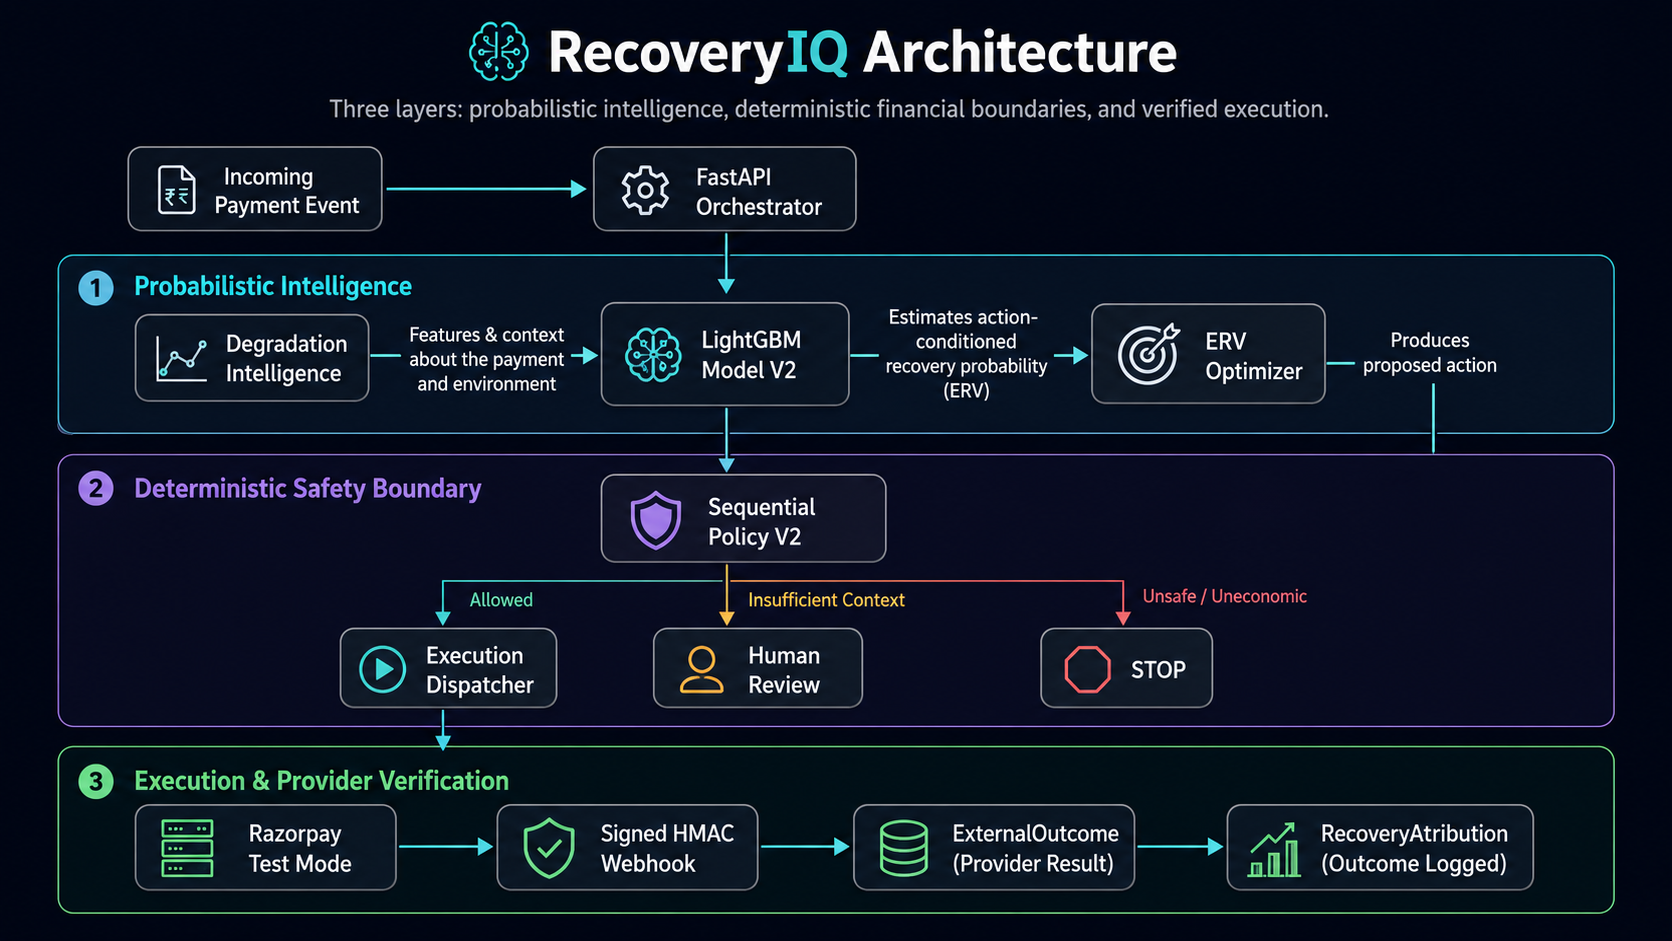
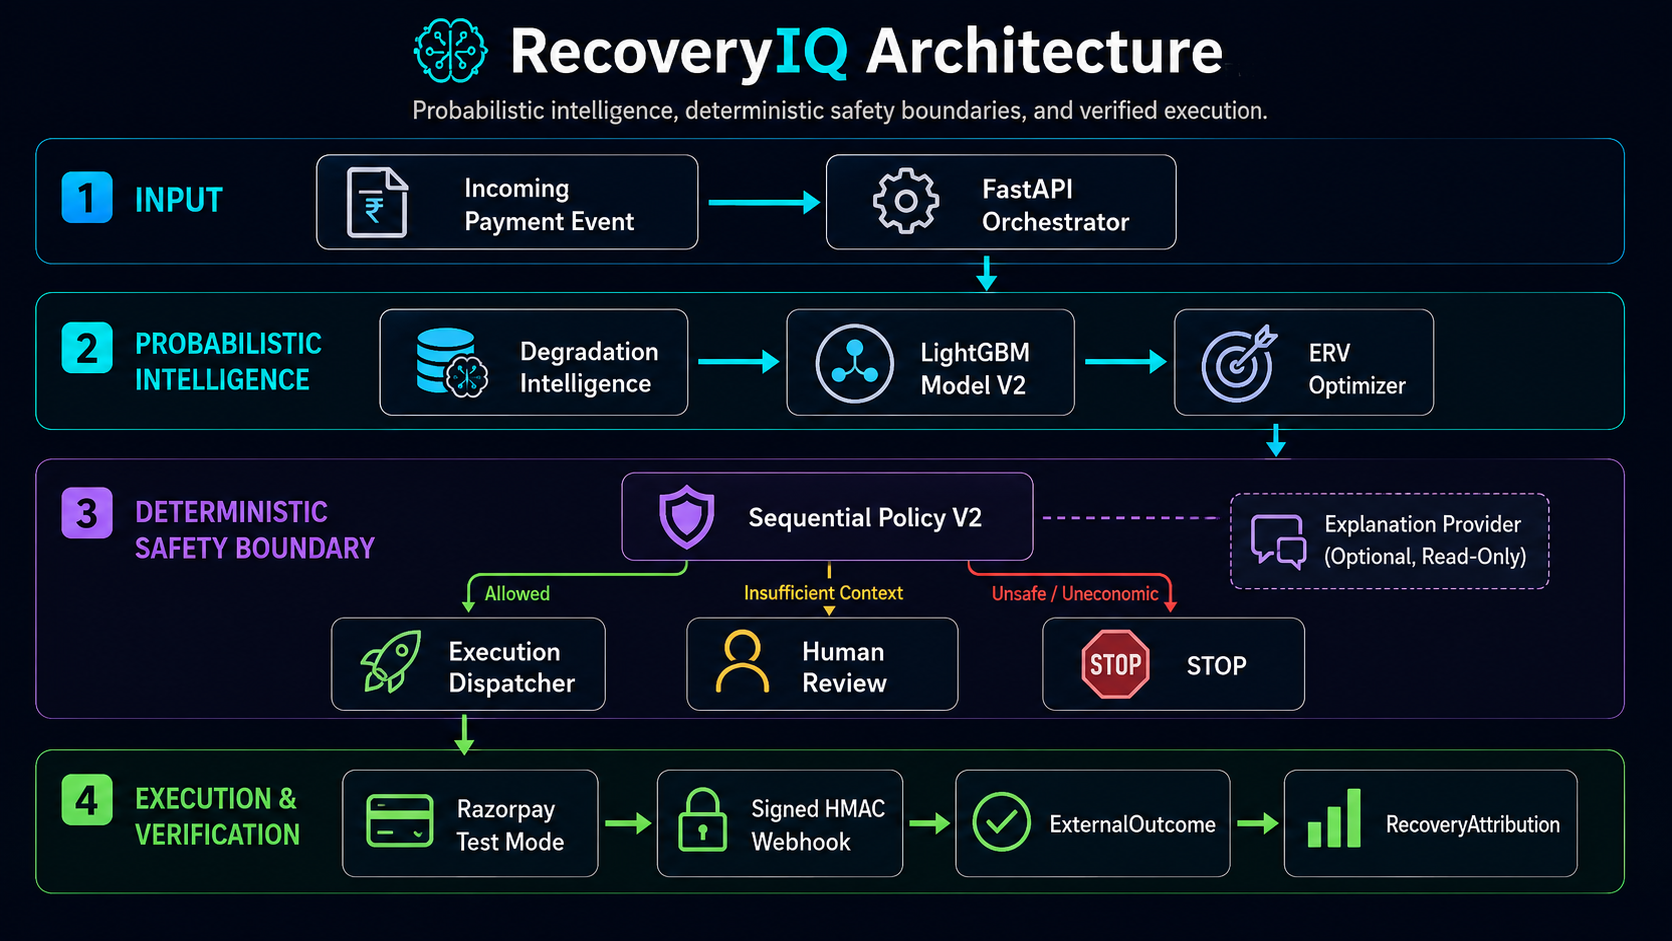
docs: Update detailed architecture image to png format

Changed region(s): [[0.0311, 0.0, 0.9641, 0.9554], [0.6842, 0.5239, 0.7153, 0.5547]]

diff --git a/README.md b/README.md
@@ -102,7 +102,7 @@ RecoveryIQ was evaluated against version-controlled strategies on the same seale
 
 RecoveryIQ relies on three layers: **probabilistic intelligence**, **deterministic financial boundaries**, and **verified execution**.
 
-![RecoveryIQ Detailed Architecture](docs/assets/detailed_architecture.jpg)
+![RecoveryIQ Detailed Architecture](docs/assets/detailed_architecture.png)
 
 *The detailed architecture diagram above outlines all internal components and data flows. For a quicker high-level overview, the abstract version below illustrates the core system shape and boundaries.*
 
